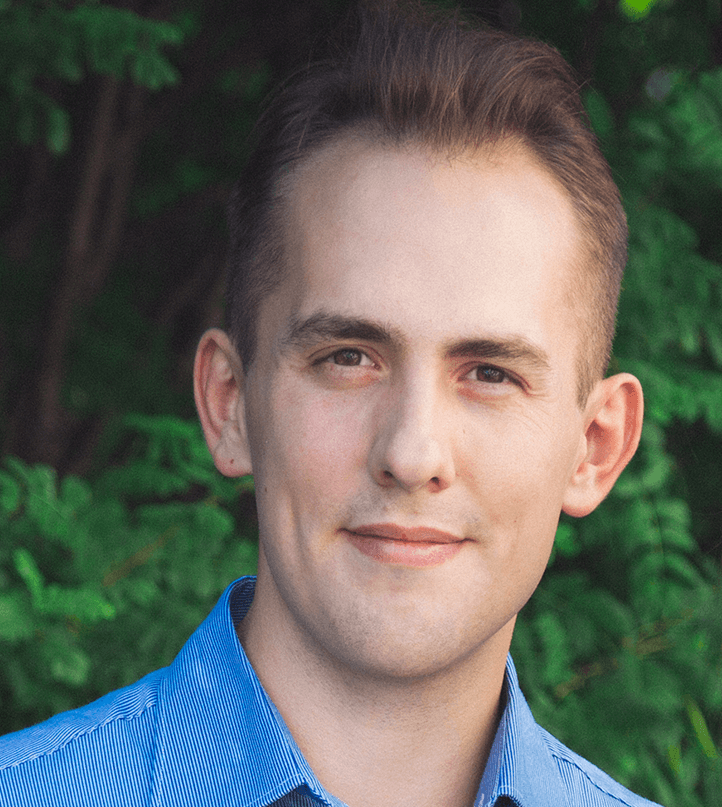
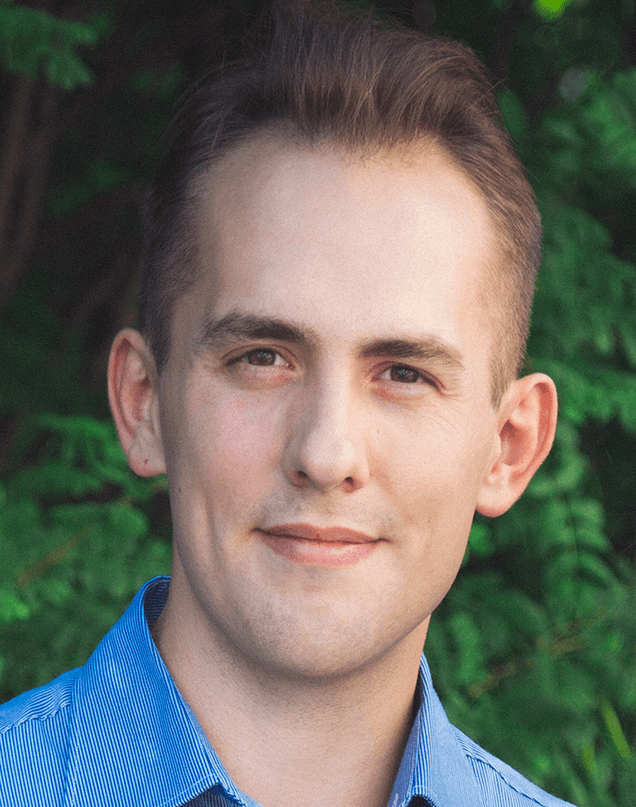
Fix header

diff --git a/assets/css/app.css b/assets/css/app.css
@@ -1,2 +1,2 @@
-@font-face{font-family:'Exo 2';font-style:normal;font-weight:100;font-display:swap;src:url("../fonts/exo-2-v5-latin_cyrillic-100.eot");src:local("Exo 2 Thin"),local("Exo2-Thin"),url("../fonts/exo-2-v5-latin_cyrillic-100.eot?#iefix") format("embedded-opentype"),url("../fonts/exo-2-v5-latin_cyrillic-100.woff2") format("woff2"),url("../fonts/exo-2-v5-latin_cyrillic-100.woff") format("woff"),url("../fonts/exo-2-v5-latin_cyrillic-100.ttf") format("truetype"),url("../fonts/exo-2-v5-latin_cyrillic-100.svg#Exo2") format("svg")}@font-face{font-family:'Exo 2';font-style:normal;font-weight:200;font-display:swap;src:url("../fonts/exo-2-v5-latin_cyrillic-200.eot");src:local("Exo 2 Extra Light"),local("Exo2-ExtraLight"),url("../fonts/exo-2-v5-latin_cyrillic-200.eot?#iefix") format("embedded-opentype"),url("../fonts/exo-2-v5-latin_cyrillic-200.woff2") format("woff2"),url("../fonts/exo-2-v5-latin_cyrillic-200.woff") format("woff"),url("../fonts/exo-2-v5-latin_cyrillic-200.ttf") format("truetype"),url("../fonts/exo-2-v5-latin_cyrillic-200.svg#Exo2") format("svg")}@font-face{font-family:'Exo 2';font-style:normal;font-weight:300;font-display:swap;src:url("../fonts/exo-2-v5-latin_cyrillic-300.eot");src:local("Exo 2 Light"),local("Exo2-Light"),url("../fonts/exo-2-v5-latin_cyrillic-300.eot?#iefix") format("embedded-opentype"),url("../fonts/exo-2-v5-latin_cyrillic-300.woff2") format("woff2"),url("../fonts/exo-2-v5-latin_cyrillic-300.woff") format("woff"),url("../fonts/exo-2-v5-latin_cyrillic-300.ttf") format("truetype"),url("../fonts/exo-2-v5-latin_cyrillic-300.svg#Exo2") format("svg")}@font-face{font-family:'Exo 2';font-style:normal;font-weight:400;font-display:swap;src:url("../fonts/exo-2-v5-latin_cyrillic-regular.eot");src:local("Exo 2"),local("Exo2-Regular"),url("../fonts/exo-2-v5-latin_cyrillic-regular.eot?#iefix") format("embedded-opentype"),url("../fonts/exo-2-v5-latin_cyrillic-regular.woff2") format("woff2"),url("../fonts/exo-2-v5-latin_cyrillic-regular.woff") format("woff"),url("../fonts/exo-2-v5-latin_cyrillic-regular.ttf") format("truetype"),url("../fonts/exo-2-v5-latin_cyrillic-regular.svg#Exo2") format("svg")}@font-face{font-family:'Exo 2';font-style:normal;font-weight:500;font-display:swap;src:url("../fonts/exo-2-v5-latin_cyrillic-500.eot");src:local("Exo 2 Medium"),local("Exo2-Medium"),url("../fonts/exo-2-v5-latin_cyrillic-500.eot?#iefix") format("embedded-opentype"),url("../fonts/exo-2-v5-latin_cyrillic-500.woff2") format("woff2"),url("../fonts/exo-2-v5-latin_cyrillic-500.woff") format("woff"),url("../fonts/exo-2-v5-latin_cyrillic-500.ttf") format("truetype"),url("../fonts/exo-2-v5-latin_cyrillic-500.svg#Exo2") format("svg")}@font-face{font-family:'Exo 2';font-style:normal;font-weight:600;font-display:swap;src:url("../fonts/exo-2-v5-latin_cyrillic-600.eot");src:local("Exo 2 Semi Bold"),local("Exo2-SemiBold"),url("../fonts/exo-2-v5-latin_cyrillic-600.eot?#iefix") format("embedded-opentype"),url("../fonts/exo-2-v5-latin_cyrillic-600.woff2") format("woff2"),url("../fonts/exo-2-v5-latin_cyrillic-600.woff") format("woff"),url("../fonts/exo-2-v5-latin_cyrillic-600.ttf") format("truetype"),url("../fonts/exo-2-v5-latin_cyrillic-600.svg#Exo2") format("svg")}@font-face{font-family:'Exo 2';font-style:normal;font-weight:700;font-display:swap;src:url("../fonts/exo-2-v5-latin_cyrillic-700.eot");src:local("Exo 2 Bold"),local("Exo2-Bold"),url("../fonts/exo-2-v5-latin_cyrillic-700.eot?#iefix") format("embedded-opentype"),url("../fonts/exo-2-v5-latin_cyrillic-700.woff2") format("woff2"),url("../fonts/exo-2-v5-latin_cyrillic-700.woff") format("woff"),url("../fonts/exo-2-v5-latin_cyrillic-700.ttf") format("truetype"),url("../fonts/exo-2-v5-latin_cyrillic-700.svg#Exo2") format("svg")}@font-face{font-family:'Exo 2';font-style:normal;font-weight:800;font-display:swap;src:url("../fonts/exo-2-v5-latin_cyrillic-800.eot");src:local("Exo 2 Extra Bold"),local("Exo2-ExtraBold"),url("../fonts/exo-2-v5-latin_cyrillic-800.eot?#iefix") format("embedded-opentype"),url("../fonts/exo-2-v5-latin_cyrillic-800.woff2") format("woff2"),url("../fonts/exo-2-v5-latin_cyrillic-800.woff") format("woff"),url("../fonts/exo-2-v5-latin_cyrillic-800.ttf") format("truetype"),url("../fonts/exo-2-v5-latin_cyrillic-800.svg#Exo2") format("svg")}@font-face{font-family:'Exo 2';font-style:normal;font-weight:900;font-display:swap;src:url("../fonts/exo-2-v5-latin_cyrillic-900.eot");src:local("Exo 2 Black"),local("Exo2-Black"),url("../fonts/exo-2-v5-latin_cyrillic-900.eot?#iefix") format("embedded-opentype"),url("../fonts/exo-2-v5-latin_cyrillic-900.woff2") format("woff2"),url("../fonts/exo-2-v5-latin_cyrillic-900.woff") format("woff"),url("../fonts/exo-2-v5-latin_cyrillic-900.ttf") format("truetype"),url("../fonts/exo-2-v5-latin_cyrillic-900.svg#Exo2") format("svg")}/*! normalize.css v8.0.1 | MIT License | github.com/necolas/normalize.css */html{line-height:1.15;-webkit-text-size-adjust:100%}body{margin:0}main{display:block}h1{font-size:2em;margin:0.67em 0}hr{-webkit-box-sizing:content-box;box-sizing:content-box;height:0;overflow:visible}pre{font-family:monospace, monospace;font-size:1em}a{background-color:transparent}abbr[title]{border-bottom:none;text-decoration:underline;-webkit-text-decoration:underline dotted;text-decoration:underline dotted}b,strong{font-weight:bolder}code,kbd,samp{font-family:monospace, monospace;font-size:1em}small{font-size:80%}sub,sup{font-size:75%;line-height:0;position:relative;vertical-align:baseline}sub{bottom:-0.25em}sup{top:-0.5em}img{border-style:none}button,input,optgroup,select,textarea{font-family:inherit;font-size:100%;line-height:1.15;margin:0}button,input{overflow:visible}button,select{text-transform:none}button,[type="button"],[type="reset"],[type="submit"]{-webkit-appearance:button}button::-moz-focus-inner,[type="button"]::-moz-focus-inner,[type="reset"]::-moz-focus-inner,[type="submit"]::-moz-focus-inner{border-style:none;padding:0}button:-moz-focusring,[type="button"]:-moz-focusring,[type="reset"]:-moz-focusring,[type="submit"]:-moz-focusring{outline:1px dotted ButtonText}fieldset{padding:0.35em 0.75em 0.625em}legend{-webkit-box-sizing:border-box;box-sizing:border-box;color:inherit;display:table;max-width:100%;padding:0;white-space:normal}progress{vertical-align:baseline}textarea{overflow:auto}[type="checkbox"],[type="radio"]{-webkit-box-sizing:border-box;box-sizing:border-box;padding:0}[type="number"]::-webkit-inner-spin-button,[type="number"]::-webkit-outer-spin-button{height:auto}[type="search"]{-webkit-appearance:textfield;outline-offset:-2px}[type="search"]::-webkit-search-decoration{-webkit-appearance:none}::-webkit-file-upload-button{-webkit-appearance:button;font:inherit}details{display:block}summary{display:list-item}template{display:none}[hidden]{display:none}*{-webkit-box-sizing:border-box;box-sizing:border-box}body{font-family:'Exo 2', sans-serif;font-size:18px;font-weight:400}.container{max-width:1170px;margin:auto;padding:0 20px}.img-responsive{display:block;max-width:100%;height:auto}.img-responsive.img-width{width:100%}.text-center{text-align:center}a{text-decoration:none}h1,h2,h3{margin:0}b,strong{font-weight:bold}.section{padding:50px 0}.section-title{margin:30px 0}.section__title{text-transform:uppercase;text-align:center;font-size:38px;position:relative}.section__title::after{content:'';position:absolute;background-color:#000;height:3px;width:150px;bottom:-10px;left:50%;-webkit-transform:translateX(-50%);transform:translateX(-50%)}.header{background:url(../img/hero/home-office-1207834.jpg) no-repeat;height:100vh;background-size:cover;background-position:center;position:relative;color:#fff;text-shadow:1px 1px 2px #2f2f2f}.header .container{display:-webkit-box;display:-ms-flexbox;display:flex;-ms-flex-wrap:wrap;flex-wrap:wrap;-webkit-box-pack:center;-ms-flex-pack:center;justify-content:center;height:100%}.header .container>*{z-index:1}.header-title{margin:0;padding:20px 0}.header-block{display:-webkit-box;display:-ms-flexbox;display:flex;-webkit-box-align:center;-ms-flex-align:center;align-items:center;-ms-flex-pack:distribute;justify-content:space-around}@media (max-width: 586px){.header-block{-ms-flex-wrap:wrap;flex-wrap:wrap}}.header-block__foto{background:url(../img/hero/foto.png) no-repeat;background-size:cover;background-position:center center;width:auto;height:600px;border:10px solid #fff;border-top-left-radius:30px;border-bottom-left-radius:30px;border-bottom-right-radius:30px}@media (max-width: 586px){.header-block__foto{height:350px;background-position:top center}}.header-block__text,.header-block__foto{-ms-flex-preferred-size:45%;flex-basis:45%}@media (max-width: 586px){.header-block__text,.header-block__foto{-ms-flex-preferred-size:100%;flex-basis:100%}}.header::before{content:'';position:absolute;background-color:#37353B;top:0;bottom:0;left:0;right:0;opacity:0.7}.header p{line-height:1.5}
+@font-face{font-family:'Exo 2';font-style:normal;font-weight:100;font-display:swap;src:url("../fonts/exo-2-v5-latin_cyrillic-100.eot");src:local("Exo 2 Thin"),local("Exo2-Thin"),url("../fonts/exo-2-v5-latin_cyrillic-100.eot?#iefix") format("embedded-opentype"),url("../fonts/exo-2-v5-latin_cyrillic-100.woff2") format("woff2"),url("../fonts/exo-2-v5-latin_cyrillic-100.woff") format("woff"),url("../fonts/exo-2-v5-latin_cyrillic-100.ttf") format("truetype"),url("../fonts/exo-2-v5-latin_cyrillic-100.svg#Exo2") format("svg")}@font-face{font-family:'Exo 2';font-style:normal;font-weight:200;font-display:swap;src:url("../fonts/exo-2-v5-latin_cyrillic-200.eot");src:local("Exo 2 Extra Light"),local("Exo2-ExtraLight"),url("../fonts/exo-2-v5-latin_cyrillic-200.eot?#iefix") format("embedded-opentype"),url("../fonts/exo-2-v5-latin_cyrillic-200.woff2") format("woff2"),url("../fonts/exo-2-v5-latin_cyrillic-200.woff") format("woff"),url("../fonts/exo-2-v5-latin_cyrillic-200.ttf") format("truetype"),url("../fonts/exo-2-v5-latin_cyrillic-200.svg#Exo2") format("svg")}@font-face{font-family:'Exo 2';font-style:normal;font-weight:300;font-display:swap;src:url("../fonts/exo-2-v5-latin_cyrillic-300.eot");src:local("Exo 2 Light"),local("Exo2-Light"),url("../fonts/exo-2-v5-latin_cyrillic-300.eot?#iefix") format("embedded-opentype"),url("../fonts/exo-2-v5-latin_cyrillic-300.woff2") format("woff2"),url("../fonts/exo-2-v5-latin_cyrillic-300.woff") format("woff"),url("../fonts/exo-2-v5-latin_cyrillic-300.ttf") format("truetype"),url("../fonts/exo-2-v5-latin_cyrillic-300.svg#Exo2") format("svg")}@font-face{font-family:'Exo 2';font-style:normal;font-weight:400;font-display:swap;src:url("../fonts/exo-2-v5-latin_cyrillic-regular.eot");src:local("Exo 2"),local("Exo2-Regular"),url("../fonts/exo-2-v5-latin_cyrillic-regular.eot?#iefix") format("embedded-opentype"),url("../fonts/exo-2-v5-latin_cyrillic-regular.woff2") format("woff2"),url("../fonts/exo-2-v5-latin_cyrillic-regular.woff") format("woff"),url("../fonts/exo-2-v5-latin_cyrillic-regular.ttf") format("truetype"),url("../fonts/exo-2-v5-latin_cyrillic-regular.svg#Exo2") format("svg")}@font-face{font-family:'Exo 2';font-style:normal;font-weight:500;font-display:swap;src:url("../fonts/exo-2-v5-latin_cyrillic-500.eot");src:local("Exo 2 Medium"),local("Exo2-Medium"),url("../fonts/exo-2-v5-latin_cyrillic-500.eot?#iefix") format("embedded-opentype"),url("../fonts/exo-2-v5-latin_cyrillic-500.woff2") format("woff2"),url("../fonts/exo-2-v5-latin_cyrillic-500.woff") format("woff"),url("../fonts/exo-2-v5-latin_cyrillic-500.ttf") format("truetype"),url("../fonts/exo-2-v5-latin_cyrillic-500.svg#Exo2") format("svg")}@font-face{font-family:'Exo 2';font-style:normal;font-weight:600;font-display:swap;src:url("../fonts/exo-2-v5-latin_cyrillic-600.eot");src:local("Exo 2 Semi Bold"),local("Exo2-SemiBold"),url("../fonts/exo-2-v5-latin_cyrillic-600.eot?#iefix") format("embedded-opentype"),url("../fonts/exo-2-v5-latin_cyrillic-600.woff2") format("woff2"),url("../fonts/exo-2-v5-latin_cyrillic-600.woff") format("woff"),url("../fonts/exo-2-v5-latin_cyrillic-600.ttf") format("truetype"),url("../fonts/exo-2-v5-latin_cyrillic-600.svg#Exo2") format("svg")}@font-face{font-family:'Exo 2';font-style:normal;font-weight:700;font-display:swap;src:url("../fonts/exo-2-v5-latin_cyrillic-700.eot");src:local("Exo 2 Bold"),local("Exo2-Bold"),url("../fonts/exo-2-v5-latin_cyrillic-700.eot?#iefix") format("embedded-opentype"),url("../fonts/exo-2-v5-latin_cyrillic-700.woff2") format("woff2"),url("../fonts/exo-2-v5-latin_cyrillic-700.woff") format("woff"),url("../fonts/exo-2-v5-latin_cyrillic-700.ttf") format("truetype"),url("../fonts/exo-2-v5-latin_cyrillic-700.svg#Exo2") format("svg")}@font-face{font-family:'Exo 2';font-style:normal;font-weight:800;font-display:swap;src:url("../fonts/exo-2-v5-latin_cyrillic-800.eot");src:local("Exo 2 Extra Bold"),local("Exo2-ExtraBold"),url("../fonts/exo-2-v5-latin_cyrillic-800.eot?#iefix") format("embedded-opentype"),url("../fonts/exo-2-v5-latin_cyrillic-800.woff2") format("woff2"),url("../fonts/exo-2-v5-latin_cyrillic-800.woff") format("woff"),url("../fonts/exo-2-v5-latin_cyrillic-800.ttf") format("truetype"),url("../fonts/exo-2-v5-latin_cyrillic-800.svg#Exo2") format("svg")}@font-face{font-family:'Exo 2';font-style:normal;font-weight:900;font-display:swap;src:url("../fonts/exo-2-v5-latin_cyrillic-900.eot");src:local("Exo 2 Black"),local("Exo2-Black"),url("../fonts/exo-2-v5-latin_cyrillic-900.eot?#iefix") format("embedded-opentype"),url("../fonts/exo-2-v5-latin_cyrillic-900.woff2") format("woff2"),url("../fonts/exo-2-v5-latin_cyrillic-900.woff") format("woff"),url("../fonts/exo-2-v5-latin_cyrillic-900.ttf") format("truetype"),url("../fonts/exo-2-v5-latin_cyrillic-900.svg#Exo2") format("svg")}/*! normalize.css v8.0.1 | MIT License | github.com/necolas/normalize.css */html{line-height:1.15;-webkit-text-size-adjust:100%}body{margin:0}main{display:block}h1{font-size:2em;margin:0.67em 0}hr{-webkit-box-sizing:content-box;box-sizing:content-box;height:0;overflow:visible}pre{font-family:monospace, monospace;font-size:1em}a{background-color:transparent}abbr[title]{border-bottom:none;text-decoration:underline;-webkit-text-decoration:underline dotted;text-decoration:underline dotted}b,strong{font-weight:bolder}code,kbd,samp{font-family:monospace, monospace;font-size:1em}small{font-size:80%}sub,sup{font-size:75%;line-height:0;position:relative;vertical-align:baseline}sub{bottom:-0.25em}sup{top:-0.5em}img{border-style:none}button,input,optgroup,select,textarea{font-family:inherit;font-size:100%;line-height:1.15;margin:0}button,input{overflow:visible}button,select{text-transform:none}button,[type="button"],[type="reset"],[type="submit"]{-webkit-appearance:button}button::-moz-focus-inner,[type="button"]::-moz-focus-inner,[type="reset"]::-moz-focus-inner,[type="submit"]::-moz-focus-inner{border-style:none;padding:0}button:-moz-focusring,[type="button"]:-moz-focusring,[type="reset"]:-moz-focusring,[type="submit"]:-moz-focusring{outline:1px dotted ButtonText}fieldset{padding:0.35em 0.75em 0.625em}legend{-webkit-box-sizing:border-box;box-sizing:border-box;color:inherit;display:table;max-width:100%;padding:0;white-space:normal}progress{vertical-align:baseline}textarea{overflow:auto}[type="checkbox"],[type="radio"]{-webkit-box-sizing:border-box;box-sizing:border-box;padding:0}[type="number"]::-webkit-inner-spin-button,[type="number"]::-webkit-outer-spin-button{height:auto}[type="search"]{-webkit-appearance:textfield;outline-offset:-2px}[type="search"]::-webkit-search-decoration{-webkit-appearance:none}::-webkit-file-upload-button{-webkit-appearance:button;font:inherit}details{display:block}summary{display:list-item}template{display:none}[hidden]{display:none}*{-webkit-box-sizing:border-box;box-sizing:border-box}body{font-family:'Exo 2', sans-serif;font-size:18px;font-weight:400}.container{max-width:1170px;margin:auto;padding:0 20px}.img-responsive{display:block;max-width:100%;height:auto}.img-responsive.img-width{width:100%}.text-center{text-align:center}a{text-decoration:none}h1,h2,h3{margin:0}b,strong{font-weight:bold}.section{padding:50px 0}.section-title{margin:30px 0}.section__title{text-transform:uppercase;text-align:center;font-size:38px;position:relative}.section__title::after{content:'';position:absolute;background-color:#000;height:3px;width:150px;bottom:-10px;left:50%;-webkit-transform:translateX(-50%);transform:translateX(-50%)}.header{background:url(../img/hero/home-office-1207834.jpg) no-repeat;height:100vh;background-size:cover;background-position:center;position:relative;color:#fff;text-shadow:1px 1px 2px #2f2f2f}.header .container{display:-webkit-box;display:-ms-flexbox;display:flex;-ms-flex-wrap:wrap;flex-wrap:wrap;-webkit-box-pack:center;-ms-flex-pack:center;justify-content:center;height:100%}.header .container>*{z-index:1}.header-title{margin:0;padding:20px 0}.header-block{display:-webkit-box;display:-ms-flexbox;display:flex;-webkit-box-align:center;-ms-flex-align:center;align-items:center;-ms-flex-pack:distribute;justify-content:space-around}@media (max-width: 586px){.header-block{-ms-flex-wrap:wrap;flex-wrap:wrap}}.header-block__foto{background:url(../img/hero/foto.png) no-repeat;background-size:cover;background-position:top center;border:10px solid #fff;width:350px;height:500px;border-top-left-radius:30px;border-bottom-left-radius:30px;border-bottom-right-radius:30px}@media (max-width: 586px){.header-block__foto{height:400px;background-position:top center}}.header-block__text{width:50%}@media (max-width: 586px){.header-block__text{-ms-flex-preferred-size:100%;flex-basis:100%}}.header::before{content:'';position:absolute;background-color:#37353B;top:0;bottom:0;left:0;right:0;opacity:0.7}.header p{line-height:1.5}
 /*# sourceMappingURL=app.css.map */

diff --git a/index.html b/index.html
@@ -4,31 +4,14 @@
     <meta charset="UTF-8">
     <title>Портфолио Кавецкого Вадима</title>
     <meta name="description" content="Портфолио начинающего веб-разработчика Кавецкого Вадима. Создание сайтов в Ханты-Мансийске.">
-
-    <!-- Задание тега Viewport для адаптивного отображения страницы -->
-    <meta name="viewport" content="width=device-width, initial-scale=1.0">
-
-    <!-- Сообщает Internet Explorer использовать самый новый движок для рендера -->
-    <meta http-equiv="X-UA-Compatible" content="ie=edge">
-
-    <!-- Favicon Start -->
-    <link rel="shortcut icon" href="assets/img/favicon.gif" type="image/gif">
-    <!-- Favicon End -->
-
-    <!-- CSS Style Start -->
-    <link rel="stylesheet" href="assets/css/app.css">
-    <!-- CSS Style End -->
-
-    <!-- JS Start -->
-    <script src="assets/js/app.js"></script>
-    <!-- JS End -->
-
-    <!-- Custom Font Start -->
-    <link href="https://fonts.googleapis.com/css?family=Exo+2:100,200,300,400,500,600,700,800,900&amp;subset=cyrillic" rel="stylesheet">
-    <!-- Custom Font End -->
+    <meta name="viewport" content="width=device-width, initial-scale=1.0"> <!-- Задание тега Viewport для адаптивного отображения страницы -->
+    <meta http-equiv="X-UA-Compatible" content="ie=edge"> <!-- Сообщает Internet Explorer использовать самый новый движок для рендера -->
+    <link rel="shortcut icon" href="assets/img/favicon.gif" type="image/gif"> <!-- Favicon -->
+    <link rel="stylesheet" href="assets/css/app.css"> <!-- CSS Custom -->
+    <script src="assets/js/app.js"></script> <!-- JS Custom -->
+    <link href="https://fonts.googleapis.com/css?family=Exo+2:100,200,300,400,500,600,700,800,900&amp;subset=cyrillic" rel="stylesheet"> <!-- Google Font -->
 </head>
 <body>
-
   <header class="header">
     <div class="container">
       <div class="header-block">
@@ -43,7 +26,7 @@
   </header>
   <!-- /.header -->
 
-  <!-- Yandex.Metrika counter -->
+  <!-- Yandex.Metrika counter Start-->
   <script type="text/javascript" >
     (function(m,e,t,r,i,k,a){m[i]=m[i]||function(){(m[i].a=m[i].a||[]).push(arguments)};
     m[i].l=1*new Date();k=e.createElement(t),a=e.getElementsByTagName(t)[0],k.async=1,k.src=r,a.parentNode.insertBefore(k,a)})
@@ -56,11 +39,11 @@
     });
   </script>
   <noscript><div><img src="https://mc.yandex.ru/watch/52847674" style="position:absolute; left:-9999px;" alt="" /></div></noscript>
-  <!-- Yandex.Metrika counter -->
+  <!-- Yandex.Metrika counter End-->
 
-  <!-- Widget SpikMi -->
+  <!-- Widget SpikMi Start-->
   <script type="text/javascript" src="https://spikmi.com/Widget?Id=460"></script>
-  <!-- Widget SpikMi -->
+  <!-- Widget SpikMi End-->
 
 </body>
 </html>

diff --git a/assets/sass/_header.sass b/assets/sass/_header.sass
@@ -25,19 +25,19 @@
     &__foto
       background: url(../img/hero/foto.png) no-repeat
       background-size: cover
-      background-position: center center
-      width: auto
-      height: 600px
+      background-position: top center
       border: 10px solid #fff
+      width: 350px
+      height: 500px
       border-top-left-radius: 30px
       border-bottom-left-radius: 30px
       border-bottom-right-radius: 30px
       @media (max-width: 586px)
-        height: 350px
+        height: 400px
         background-position: top center
-    &__text,
-    &__foto
-      flex-basis: 45%
+    &__text
+      width: 50%
+      // flex-basis: 45%
       @media (max-width: 586px)
         flex-basis: 100%
   &::before
